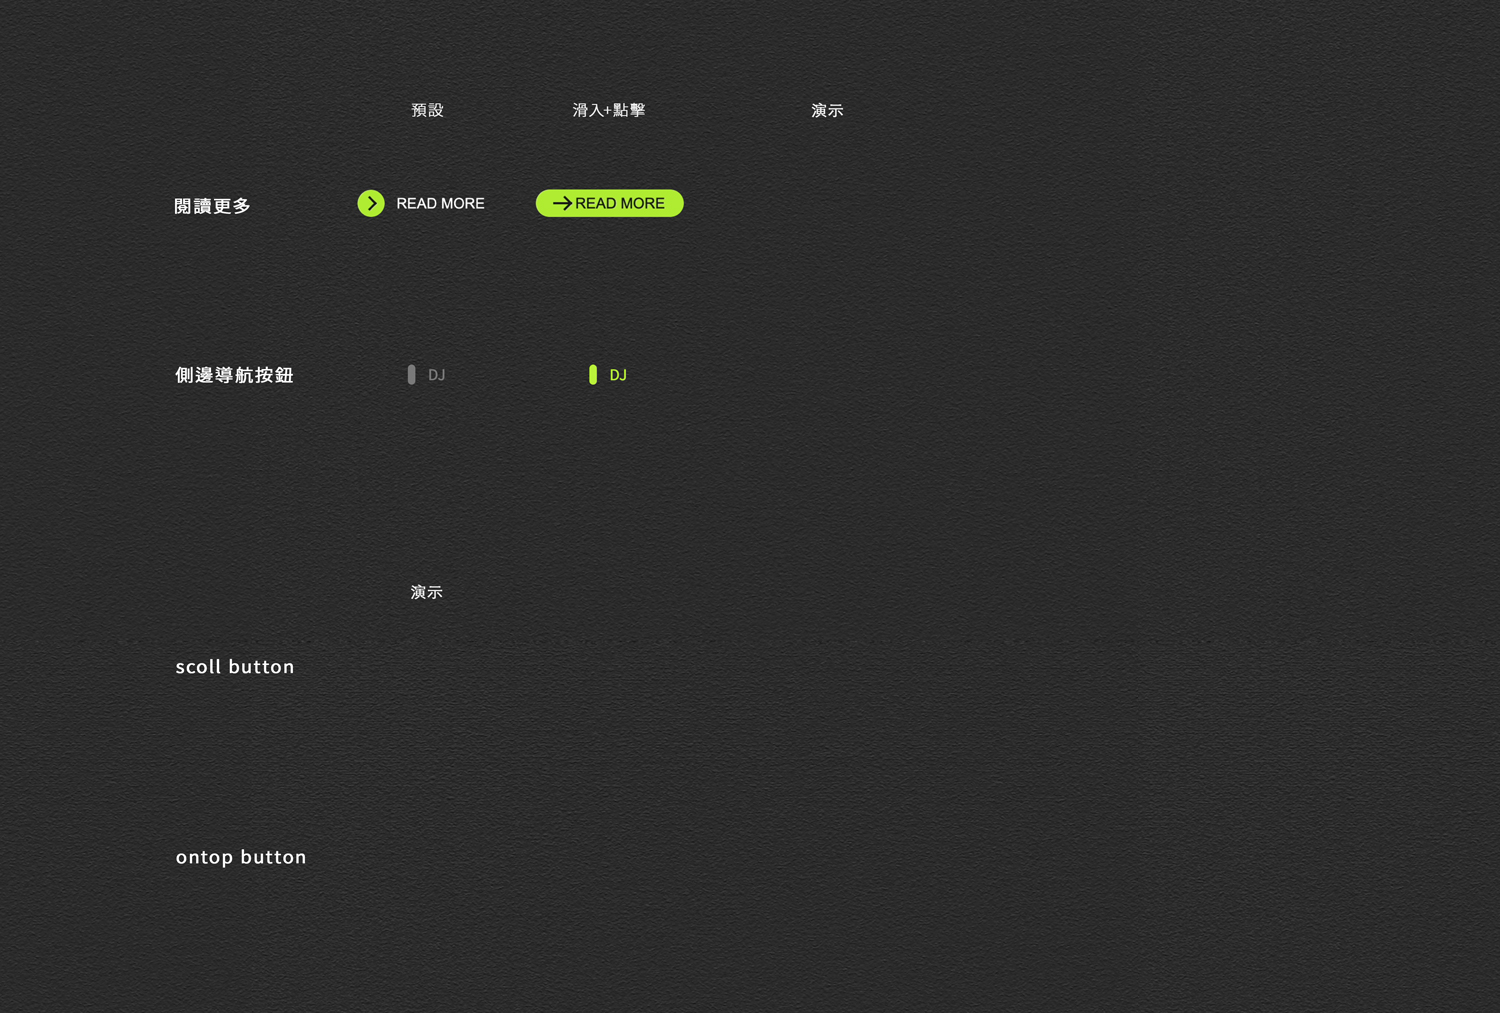
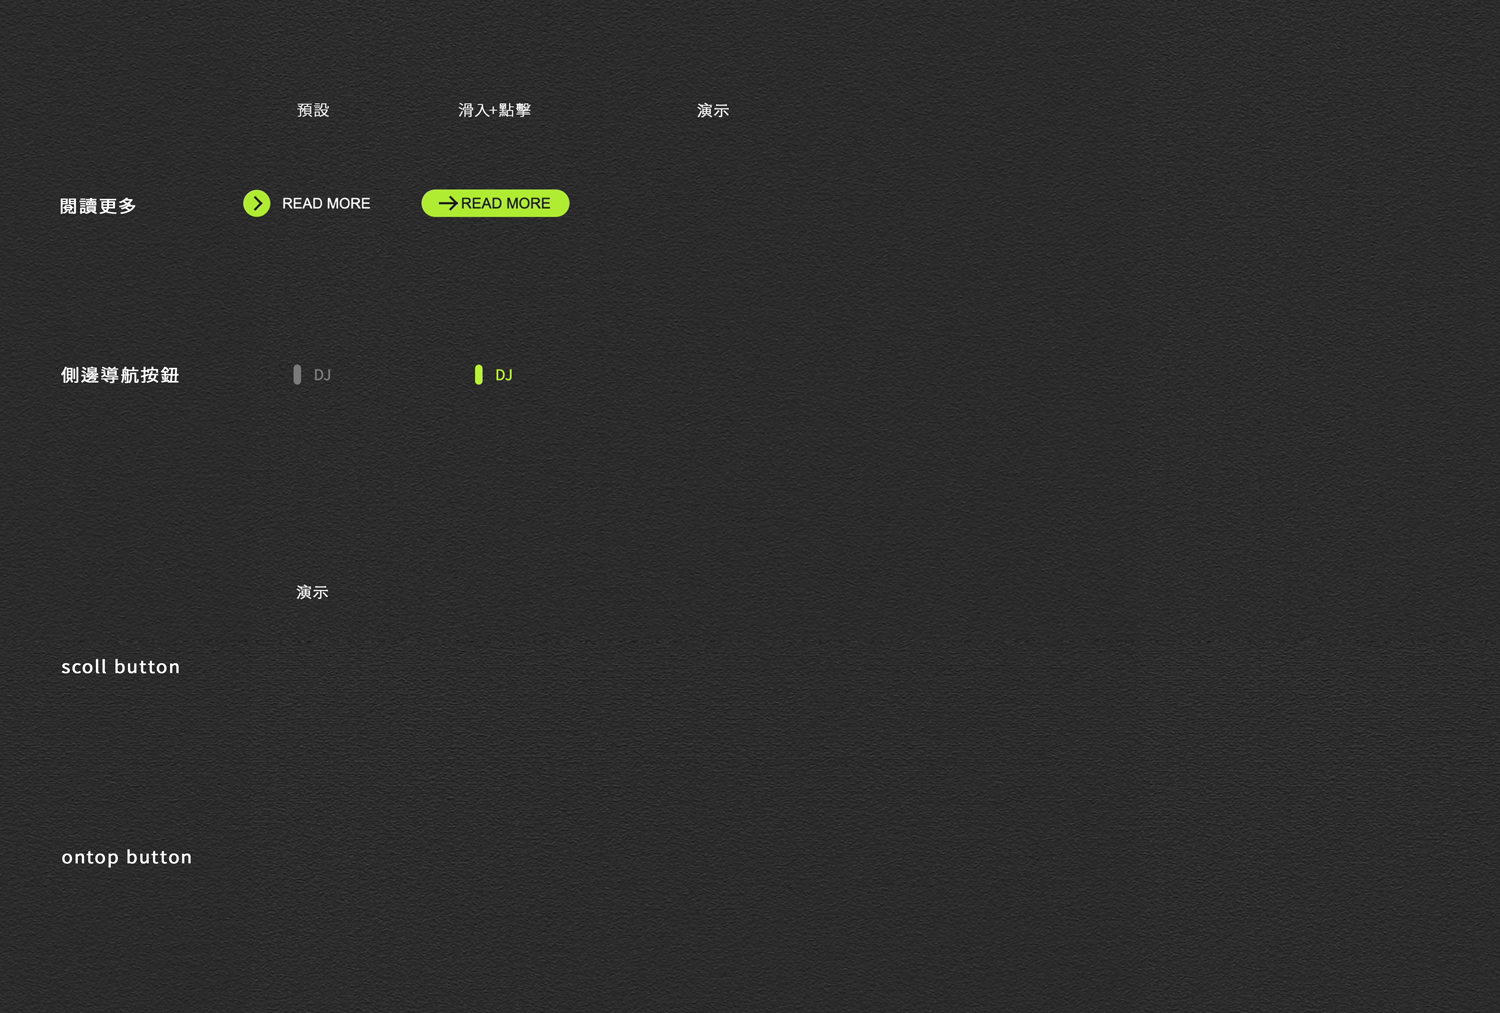
pj01照片上傳

diff --git a/index.js b/index.js
@@ -54,8 +54,10 @@ const articles = [
           <img class="scoll" src="/portfolio2024/assets/images/project001/01-00401.gif" alt="">
           <img class="ontop" src="/portfolio2024/assets/images/project001/01-00405.gif" alt="">
           </div>
+          <img src="/portfolio2024/assets/images/project001/01-005.jpg" alt="">
       
-        </div>`, img: "/portfolio2024/assets/images/project001/01-001.jpg" },
+        </div>`, introduction: ``,
+        client: "Side Project", type: "視覺設計、UIUX、前端工程", year: "2024 Aug.", img: "/portfolio2024/assets/images/project001/01-001.jpg" },
   {
     id: 2, title: "台灣巧克力節 In PINTUNG", excerpt: "活動視覺設計", content: ` <div>
         <div class="img-box">

diff --git a/styles/style.css b/styles/style.css
@@ -369,26 +369,26 @@ section {
 }
 .project-page .content .img-box .item .readmore {
   position: absolute;
-  top: 16%;
-  right: 40%;
+  top: 15.9%;
+  right: 47%;
   width: 11%;
 }
 .project-page .content .img-box .item .sidebtn {
   position: absolute;
   top: 25%;
-  right: 42%;
+  right: 49%;
   width: 13%;
 }
 .project-page .content .img-box .item .scoll {
   position: absolute;
   bottom: 30%;
-  left: 26%;
+  left: 18.5%;
   width: 5%;
 }
 .project-page .content .img-box .item .ontop {
   position: absolute;
   bottom: 10%;
-  left: 23.5%;
+  left: 16%;
   width: 10%;
 }
 .project-page .content .img-box img {
